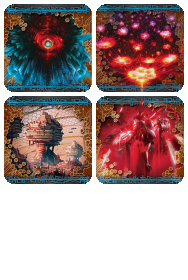
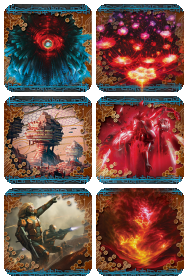
v2.9.0 : Add Red Sand 3, 4, 5 and 6  - Add Earth's Scion  - Add Blood and Water  - Add Free Mars  - Add Crimson Dust (Not checked because not released)

Changed region(s): [[0.0, 0.6571, 0.984, 1.0]]

diff --git a/www/index.html b/www/index.html
@@ -50,7 +50,7 @@
         <div class="modal-content">
           <div class="modal-header">
             <button type="button" class="close" data-dismiss="modal" aria-label="Close"><span aria-hidden="true">&times;</span></button>
-            <h4 class="modal-title"><span class="glyphicon glyphicon-barcode" aria-hidden="true"></span> v2.8.1</h4>
+            <h4 class="modal-title"><span class="glyphicon glyphicon-barcode" aria-hidden="true"></span> v2.9.0</h4>
           </div>
           <div class="modal-body">
             <div class="row">
@@ -89,8 +89,20 @@
                 <div class="panel-group" id="accordionChangeLog" role="tablist" aria-multiselectable="true">
 
                   <div class="panel">
+                    <h4><a role="button" data-toggle="collapse" data-parent="#accordionChangeLog" href="#changeLogCollapse10" aria-expanded="true" aria-controls="changeLogCollapse10">[19 Aug 2017] v2.9 <span class="glyphicon glyphicon-menu-down" aria-hidden="true"></span></a></h4>
+                    <div id="changeLogCollapse10" class="panel-collapse collapse in" role="tabpanel" aria-labelledby="headingOne">
+                      <ul>
+                        <li>Add Earth's Scion.</li>
+                        <li>Add Blood and Water.</li>
+                        <li>Add Free Mars.</li>
+                        <li>Add Crimson Dust.</li>
+                      </ul>
+                    </div>
+                  </div>
+
+                  <div class="panel">
                     <h4><a role="button" data-toggle="collapse" data-parent="#accordionChangeLog" href="#changeLogCollapse9" aria-expanded="true" aria-controls="changeLogCollapse9">[11 Apr 2017] v2.8 <span class="glyphicon glyphicon-menu-down" aria-hidden="true"></span></a></h4>
-                    <div id="changeLogCollapse9" class="panel-collapse collapse in" role="tabpanel" aria-labelledby="headingOne">
+                    <div id="changeLogCollapse9" class="panel-collapse collapse" role="tabpanel" aria-labelledby="headingOne">
                       <ul>
                         <li>Add Station One.</li>
                         <li>Change many numbers of selected cards.</li>
@@ -293,7 +305,7 @@
             </ul>
 
             <h4><span class="glyphicon glyphicon-cog" aria-hidden="true"></span> Algorithm</h4>
-            <p>All cards of a Sealed Pack are picked randomly by completing <b><a href="https://github.com/Salem2612/anrsealed/blob/v2.8/www/json/v2.8.1/constraints.json">constraints</a></b>. These constraints are given for the 45 cards format. For the 30 cards format, the constraints are 60% of the 45 cards format.</p>
+            <p>All cards of a Sealed Pack are picked randomly by completing <b><a href="https://github.com/Salem2612/anrsealed/blob/master/www/json/v2.9.0/constraints.json">constraints</a></b>. These constraints are given for the 45 cards format. For the 30 cards format, the constraints are 60% of the 45 cards format.</p>
             </ul>
 
             <h4><span class="glyphicon glyphicon-list" aria-hidden="true"></span> List of Cards</h4>
@@ -488,7 +500,7 @@
           </ul>
           <ul class="nav navbar-nav navbar-right">
             <li><a href="#" data-toggle="modal" data-target="#modalHelp"><span class="glyphicon glyphicon-question-sign" aria-hidden="true"></span> Help</a></li>
-            <li><a href="#" data-toggle="modal" data-target="#modalChanges"><span class="glyphicon glyphicon-barcode" aria-hidden="true"></span> v2.8</a></li>
+            <li><a href="#" data-toggle="modal" data-target="#modalChanges"><span class="glyphicon glyphicon-barcode" aria-hidden="true"></span> v2.9</a></li>
           </ul>
         </div><!-- /.navbar-collapse -->
       </div>
@@ -531,7 +543,7 @@
             <!-- Breaking News -->
             <h4><span class="glyphicon glyphicon-blackboard" aria-hidden="true"></span> Breaking News</h4>
             <ul>
-              <li><b>[11 Apr 2017]</b> The version <b><a href="#" data-toggle="modal" data-target="#modalChanges">2.8</a></b> is now available.</li>
+              <li><b>[19 Aug 2017]</b> The version <b><a href="#" data-toggle="modal" data-target="#modalChanges">2.9</a></b> is now available.</li>
               <li>Download doesn't work on <b>Safari</b>, please use <b>Chrome</b>.</li>
             </ul> <!-- Breaking News -->
 
@@ -916,15 +928,15 @@
                         <div class="col-xs-7" style="padding:0px">
                           <div class="form-group">
                             <div class="checkbox" style="margin:0px">
-                              <label><input type="checkbox" value="checkbox_cycle_title" id="checkbox_red_sand" checked><strong>Red Sand</strong></label>
+                              <label><input type="checkbox" value="checkbox_cycle_title" id="checkbox_red_sand"><strong>Red Sand</strong></label>
                             </div>
                             <div class="input-group">
                               <div class="checkbox"><label><input type="checkbox" value="checkbox_cycle_item_red_sand" id="checkbox_daedalus_complex" checked>Daedalus Complex</label></div>
                               <div class="checkbox"><label><input type="checkbox" value="checkbox_cycle_item_red_sand" id="checkbox_station_one" checked>Station One</label></div>
-                              <!-- <div class="checkbox"><label><input type="checkbox" value="checkbox_cycle_item_red_sand" id="checkbox_earths_scion" checked>Earth's Scion</label></div> -->
-                              <!-- <div class="checkbox"><label><input type="checkbox" value="checkbox_cycle_item_red_sand" id="checkbox_blood_and_water" checked>Blood and Water</label></div> -->
-                              <!-- <div class="checkbox"><label><input type="checkbox" value="checkbox_cycle_item_red_sand" id="checkbox_unknown" checked>***</label></div> -->
-                              <!-- <div class="checkbox"><label><input type="checkbox" value="checkbox_cycle_item_red_sand" id="checkbox_unknown" checked>***</label></div> -->
+                              <div class="checkbox"><label><input type="checkbox" value="checkbox_cycle_item_red_sand" id="checkbox_earths_scion" checked>Earth's Scion</label></div>
+                              <div class="checkbox"><label><input type="checkbox" value="checkbox_cycle_item_red_sand" id="checkbox_blood_and_water" checked>Blood and Water</label></div>
+                              <div class="checkbox"><label><input type="checkbox" value="checkbox_cycle_item_red_sand" id="checkbox_free_mars" checked>Free Mars</label></div>
+                              <div class="checkbox"><label><input type="checkbox" value="checkbox_cycle_item_red_sand" id="checkbox_crimson_dust">Crimson Dust</label></div>
                             </div>
                           </div>
                         </div>  <!-- /.Check -->
@@ -975,7 +987,7 @@
       $(function() {
 
         // Global variables
-        var mView = new View(['cards', 'constraints', 'cycles', 'sets'], '2.8', '1');
+        var mView = new View(['cards', 'constraints', 'cycles', 'sets'], '2.9', '0');
 
         /**
           *

diff --git a/www/js/View.js b/www/js/View.js
@@ -180,11 +180,11 @@ View.prototype = {
       {"cycleNo" : 11,  "setNo" : 5, "nbSets" : $('#checkbox_martial_law').is(':checked') ? 1 : 0},
       {"cycleNo" : 11,  "setNo" : 6, "nbSets" : $('#checkbox_quorum').is(':checked') ? 1 : 0},
       {"cycleNo" : 12,  "setNo" : 1, "nbSets" : $('#checkbox_daedalus_complex').is(':checked') ? 1 : 0},
-      {"cycleNo" : 12,  "setNo" : 2, "nbSets" : $('#checkbox_station_one').is(':checked') ? 1 : 0}
-      // {"cycleNo" : 12,  "setNo" : 3, "nbSets" : $('#checkbox_earths_scion').is(':checked') ? 1 : 0}
-      // {"cycleNo" : 12,  "setNo" : 4, "nbSets" : $('#checkbox_blood_and_water').is(':checked') ? 1 : 0}
-      // {"cycleNo" : 12,  "setNo" : 5, "nbSets" : $('#checkbox_unknown').is(':checked') ? 1 : 0}
-      // {"cycleNo" : 12,  "setNo" : 6, "nbSets" : $('#checkbox_unknown').is(':checked') ? 1 : 0}
+      {"cycleNo" : 12,  "setNo" : 2, "nbSets" : $('#checkbox_station_one').is(':checked') ? 1 : 0},
+      {"cycleNo" : 12,  "setNo" : 3, "nbSets" : $('#checkbox_earths_scion').is(':checked') ? 1 : 0},
+      {"cycleNo" : 12,  "setNo" : 4, "nbSets" : $('#checkbox_blood_and_water').is(':checked') ? 1 : 0},
+      {"cycleNo" : 12,  "setNo" : 5, "nbSets" : $('#checkbox_free_mars').is(':checked') ? 1 : 0}
+      // {"cycleNo" : 12,  "setNo" : 6, "nbSets" : $('#checkbox_crimson_dust').is(':checked') ? 1 : 0}
     ];
 
     //
